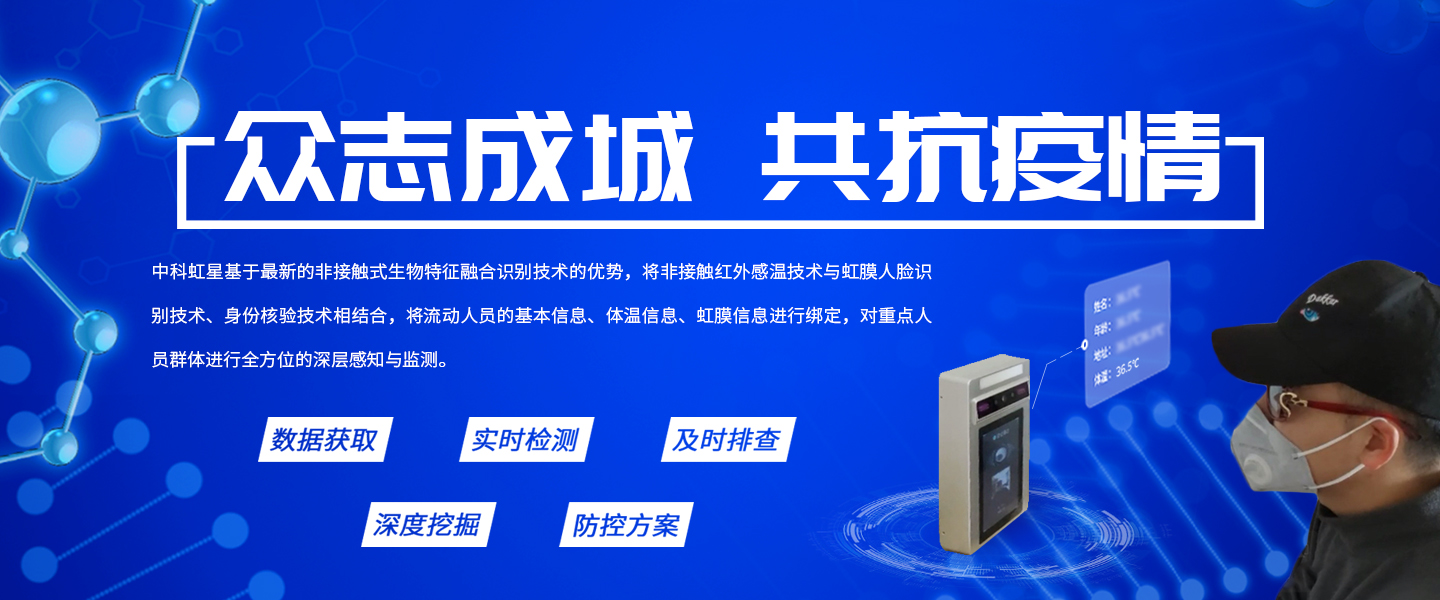
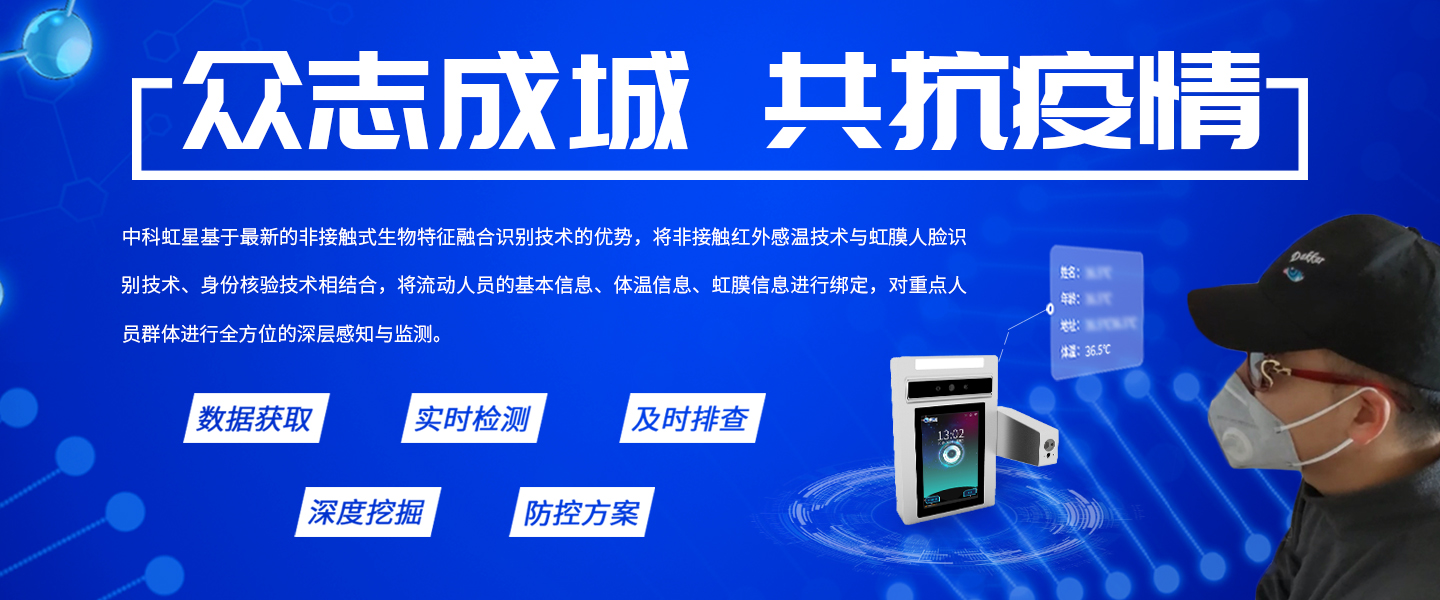
修改官网

diff --git a/portal/src/components/product/productList.js b/portal/src/components/product/productList.js
@@ -2,6 +2,41 @@ const productList = [
   {
     imgPo: 'imgLeft',
     showToHome: true,
+    index: 3,
+    scale: '1-2',
+    toHomeImg: require('@/assets/img/home/product/6.png'),
+    name: 'S320-T1虹膜测温门禁',
+    title: '壁挂式虹膜测温门禁',
+    img: require('@/assets/img/product/10.png'),
+    point: ['无接触检测，安全卫生', '识别效果，准确高效', '即插即用，快速部署'],
+    desc: 'S320-T1虹膜测温门禁集红外测温、虹膜识别、人脸识别于一体，对佩戴口罩、护目镜等高度防护的人员进行快速体温筛查与精准身份识别，既可完成体温异常人员的预警，同时可快速锁定体温异常人员近期接触者身份，实现流动人员的高效安全门禁管控。特别适合于机场、车站等交通枢纽；医院、学校、政府楼宇门禁；工厂、企业、社区出入口等。',
+    fc: [
+      {img: '', name: '园区管理'},
+      {img: '', name: '考勤打卡'},
+    ],
+    btn: {
+      show: true,
+      text: '查看详情'
+    },
+    param: [
+      {key: '产品型号', val: 'S320-T1'},
+      {key: '产品尺寸', val: '160*260*45mm（宽*高*厚）'},
+      {key: '屏幕', val: '标配7寸触摸屏'},
+      {key: '识别距离', val: '身份识别：45~65cm / 体温检测：＜5cm'},
+      {key: '识别身高范围', val: '支持根据用户身高自行调节，可覆盖40cm'},
+      {key: '注册时间', val: '虹膜+人脸＜3S'},
+      {key: '识别时间', val: '身份识别+温度检测＜2S'},
+      {key: '识别精度', val: '身份识别：误识率为0.00001%时，拒识率0.1% / 体温检测：±0.3℃'},
+      {key: '终端注册数据库', val: '标准1万用户的数据（可根据用户需求定制）'},
+      {key: '近红外光源', val: '近红外光，LED光源符合IEC-62471标准'},
+      {key: '虹膜图像', val: '符合IS029794-6和ISO19794-6标准'},
+      {key: '人脸图像', val: '符合IS029794-5和ISO19794-5标准'},
+      {key: '语音提示（灯光）', val: '支持'},
+    ]
+  },
+  {
+    imgPo: 'imgLeft',
+    showToHome: true,
     index: 2,
     scale: '1-1',
     toHomeImg: require('@/assets/img/home/product/2.png'),
@@ -278,41 +313,6 @@ const productList = [
       {key: '接口', val: 'USB2.0/3.0;网口RJ-45;干接继电器信号'},
       {key: '工作温度', val: '0℃~45℃'},
       {key: '工作湿度', val: '0~95%不结雾'},
-    ]
-  },
-  {
-    imgPo: 'imgLeft',
-    showToHome: true,
-    index: 3,
-    scale: '1-2',
-    toHomeImg: require('@/assets/img/home/product/6.png'),
-    name: 'S320-T1虹膜测温门禁',
-    title: '壁挂式虹膜测温门禁',
-    img: require('@/assets/img/product/10.png'),
-    point: ['无接触检测，安全卫生', '识别效果，准确高效', '即插即用，快速部署'],
-    desc: 'S320-T1虹膜测温门禁集红外测温、虹膜识别、人脸识别于一体，对佩戴口罩、护目镜等高度防护的人员进行快速体温筛查与精准身份识别，既可完成体温异常人员的预警，同时可快速锁定体温异常人员近期接触者身份，实现流动人员的高效安全门禁管控。特别适合于机场、车站等交通枢纽；医院、学校、政府楼宇门禁；工厂、企业、社区出入口等。',
-    fc: [
-      {img: '', name: '园区管理'},
-      {img: '', name: '考勤打卡'},
-    ],
-    btn: {
-      show: true,
-      text: '查看详情'
-    },
-    param: [
-      {key: '产品型号', val: 'S320-T1'},
-      {key: '产品尺寸', val: '160*260*45mm（宽*高*厚）'},
-      {key: '屏幕', val: '标配7寸触摸屏'},
-      {key: '识别距离', val: '身份识别：45~65cm / 体温检测：＜5cm'},
-      {key: '识别身高范围', val: '支持根据用户身高自行调节，可覆盖40cm'},
-      {key: '注册时间', val: '虹膜+人脸＜3S'},
-      {key: '识别时间', val: '身份识别+温度检测＜2S'},
-      {key: '识别精度', val: '身份识别：误识率为0.00001%时，拒识率0.1% / 体温检测：±0.3℃'},
-      {key: '终端注册数据库', val: '标准1万用户的数据（可根据用户需求定制）'},
-      {key: '近红外光源', val: '近红外光，LED光源符合IEC-62471标准'},
-      {key: '虹膜图像', val: '符合IS029794-6和ISO19794-6标准'},
-      {key: '人脸图像', val: '符合IS029794-5和ISO19794-5标准'},
-      {key: '语音提示（灯光）', val: '支持'},
     ]
   },
   {

diff --git a/portal/src/components/banner/banner.vue b/portal/src/components/banner/banner.vue
@@ -23,18 +23,18 @@ import "swiper/css/swiper.css";
 const banner1 = require('@/assets/img/banner/banner1.png')
 const banner2 = require('@/assets/img/banner/banner2.png')
 const banner3 = require('@/assets/img/banner/banner4.jpg')
-import solutionList from '../solution/solutionList'
+import productList from '../product/productList'
 export default {
   name: 'banner',
   data() {
     return {
       bannerlist: [
-        {img: banner3, url: 'solutionInfo', showCur: true},
+        {img: banner3, url: 'productInfo', showCur: true},
         {img: banner1, url: 'banner1', showCur: false},
         {img: banner2, url: 'banner2', showCur: false},
       ],
-      solutionList: solutionList,
-      solutionId: '',
+      productList: productList,
+      productId: '',
     }
   },
   created() {
@@ -48,15 +48,15 @@ export default {
   methods: {
     // 获取解决方案id
     getId() {
-      let item = this.solutionList.filter(v => v.title === '智慧安防')[0];
-      this.solutionId = item.id;
+      let item = this.productList.filter(v => v.name === 'S320-T1虹膜测温门禁')[0];
+      this.productId = item.id;
     },
     toPage(item) {
-      if(item.url === 'solutionInfo') {
+      if(item.url === 'productInfo') {
         this.$router.push({
-          name: 'solutionInfo',
+          name: 'productInfo',
           query: {
-            id: this.solutionId
+            id: this.productId
           }
         })
       }
